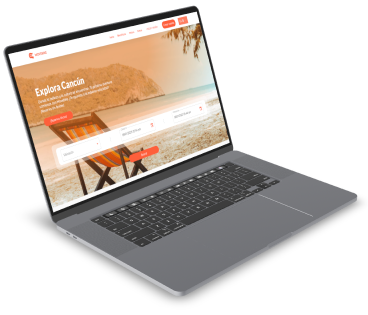
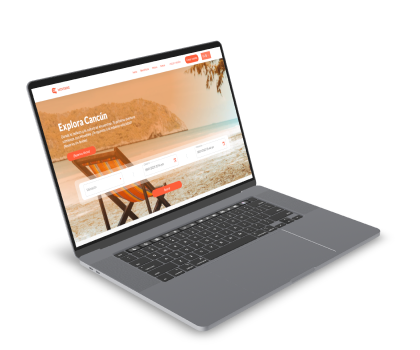
adjustments to the responsive version of hero on tablet, and projects section done

diff --git a/components/Home/Projects.js b/components/Home/Projects.js
@@ -23,28 +23,35 @@ const projects = [
         id: 2,
         title: 'Academia Landrada',
         subtitle: 'Platform for training consultants',
-        imageCover: '',
+        imageCover: '/assets/home/projects/img-academialandrada.png',
         bgColor: '#00B451'
     },
     {
         id: 3,
         title: 'Landing Page',
         subtitle: 'Investment Land Sales',
-        imageCover: '',
+        imageCover: '/assets/home/projects/img-landingpage.png',
         bgColor: '#3AACFF'
     },
     {
         id: 4,
-        title: 'Landing Page',
-        subtitle: 'Investment Land Sales',
-        imageCover: '',
-        bgColor: '#3AACFF'
+        title: 'MoveBike',
+        subtitle: 'Motorcycle rental platform',
+        imageCover: '/assets/home/projects/img-movebike.png',
+        bgColor: '#FE5F3B'
     },
     {
         id: 5,
+        title: 'Academia Landrada',
+        subtitle: 'Platform for training consultants',
+        imageCover: '/assets/home/projects/img-academialandrada.png',
+        bgColor: '#00B451'
+    },
+    {
+        id: 6,
         title: 'Landing Page',
         subtitle: 'Investment Land Sales',
-        imageCover: '',
+        imageCover: '/assets/home/projects/img-landingpage.png',
         bgColor: '#3AACFF'
     }
 ]
@@ -52,8 +59,8 @@ const projects = [
 export default function Projects() {
     return (
         <section className="container-fluid projects">
-            <div className="row">
-                <div className="col-12 d-flex justify-content-between">
+            <div className="row container m-0 m-auto">
+                <div className="col-12 container d-flex justify-content-between align-items-lg-center container">
                     <div>
                         <h2 className='projects__title'>Projects</h2>
                         <p className='projects__subtitle'>Perfect solutions for digital experience</p>
@@ -78,6 +85,9 @@ export default function Projects() {
                         modules={[Autoplay, Navigation, Pagination]}
                         breakpoints={{
                             768:{
+                                slidesPerView: 2.1,
+                            },
+                            992:{
                                 slidesPerView: 3,
                             }
                         }}

diff --git a/styles/pages/home/_projects.scss b/styles/pages/home/_projects.scss
@@ -1,6 +1,6 @@
 .projects {
     padding-top: 48px;
-    padding-bottom: 48px;
+
 
     &__title {
         color: #000;
@@ -8,6 +8,10 @@
         font-style: normal;
         font-weight: 500;
         line-height: normal;
+
+        @include responsive($lg) {
+            font-size: 70px;
+        }
     }
 
     &__subtitle {
@@ -17,6 +21,21 @@
         font-weight: 400;
         line-height: 25px;
         margin-bottom: 32px;
+
+        @include responsive($lg) {
+            font-size: 20px;
+            line-height: normal;
+        }
+    }
+
+    &__explore {
+        color: #FF8B4A;
+        font-family: Ubuntu;
+        font-size: 25px;
+        font-style: normal;
+        font-weight: 700;
+        line-height: normal;
+        text-decoration-line: underline;
     }
 
     &__swiper {
@@ -38,8 +57,13 @@
         box-shadow: 18.337px 7.551px 29.124px 0px rgba(0, 0, 0, 0.12);
 
         @include responsive($md) {
-            width: 445px;
-            height: 445px;
+            width: 300px;
+            height: 300px;
+        }
+
+        @include responsive($lg) {
+            width: 400px;
+            height: 400px;
         }
 
         &-title {
@@ -59,11 +83,28 @@
             line-height: 25px;
             margin-bottom: 4px;
         }
-
+ 
         &-img {
             width: 200px;
             height: 170px;
+
+            @include responsive($md) {
+                width: 280px;
+                height: 230px;
+            }
+
+            @include responsive($lg) {
+                width: 400px;
+                height: 330px;
+                flex-shrink: 0;
+            }
         }
     }
 
+}
+
+.swiper-wrapper {
+    @include responsive($lg) {
+        gap: 64px;
+    }
 }

diff --git a/styles/pages/home/_hero.scss b/styles/pages/home/_hero.scss
@@ -27,12 +27,16 @@
         padding: 0 24px;
 
         @include responsive($sm) {
-            padding: 0 120px;
+            padding: 0 0;
             margin: 0 auto;
             display: flex;
             height: 100%;
             align-items: center;
             justify-content: space-between;
+        }
+
+        @include responsive($lg) {
+            padding: 0 120px;
         }
 
         &-row {
@@ -41,6 +45,7 @@
                 width: 50%;
                 align-items: center;
             }
+            
         }
 
         &-row--2 {
